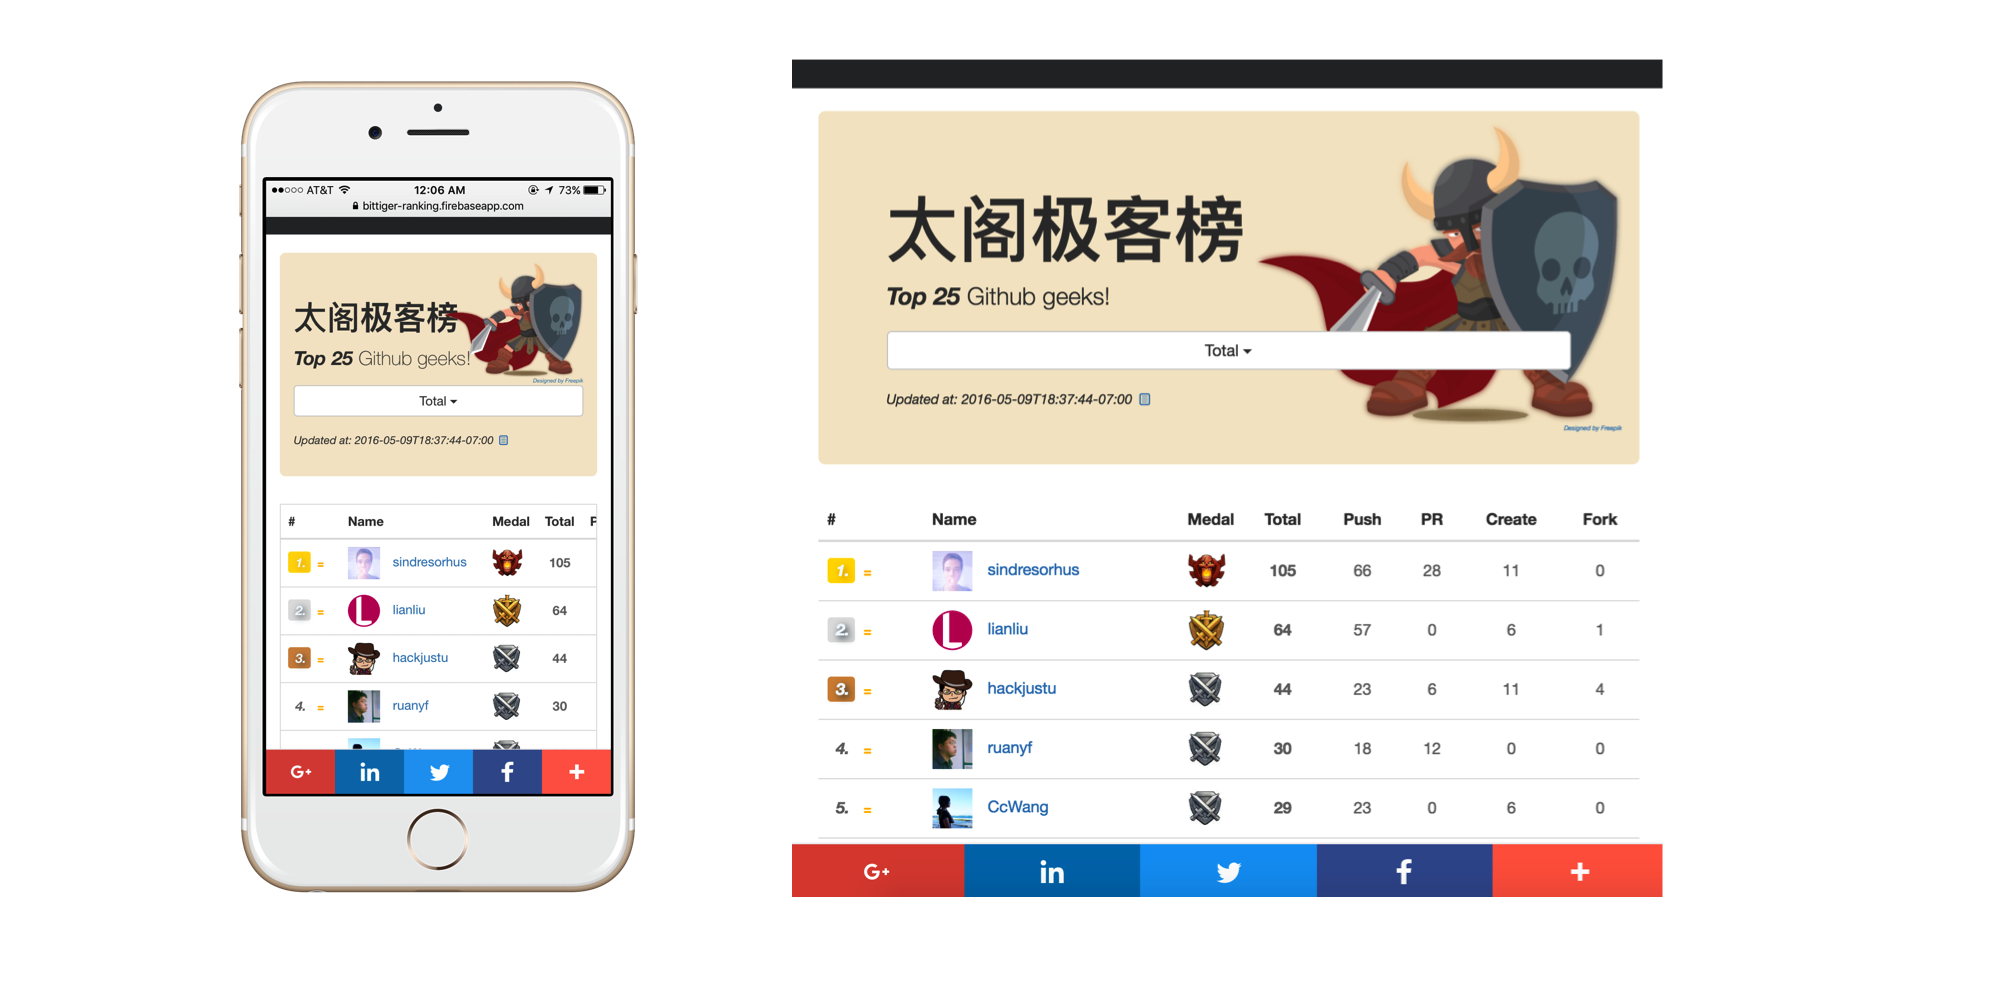
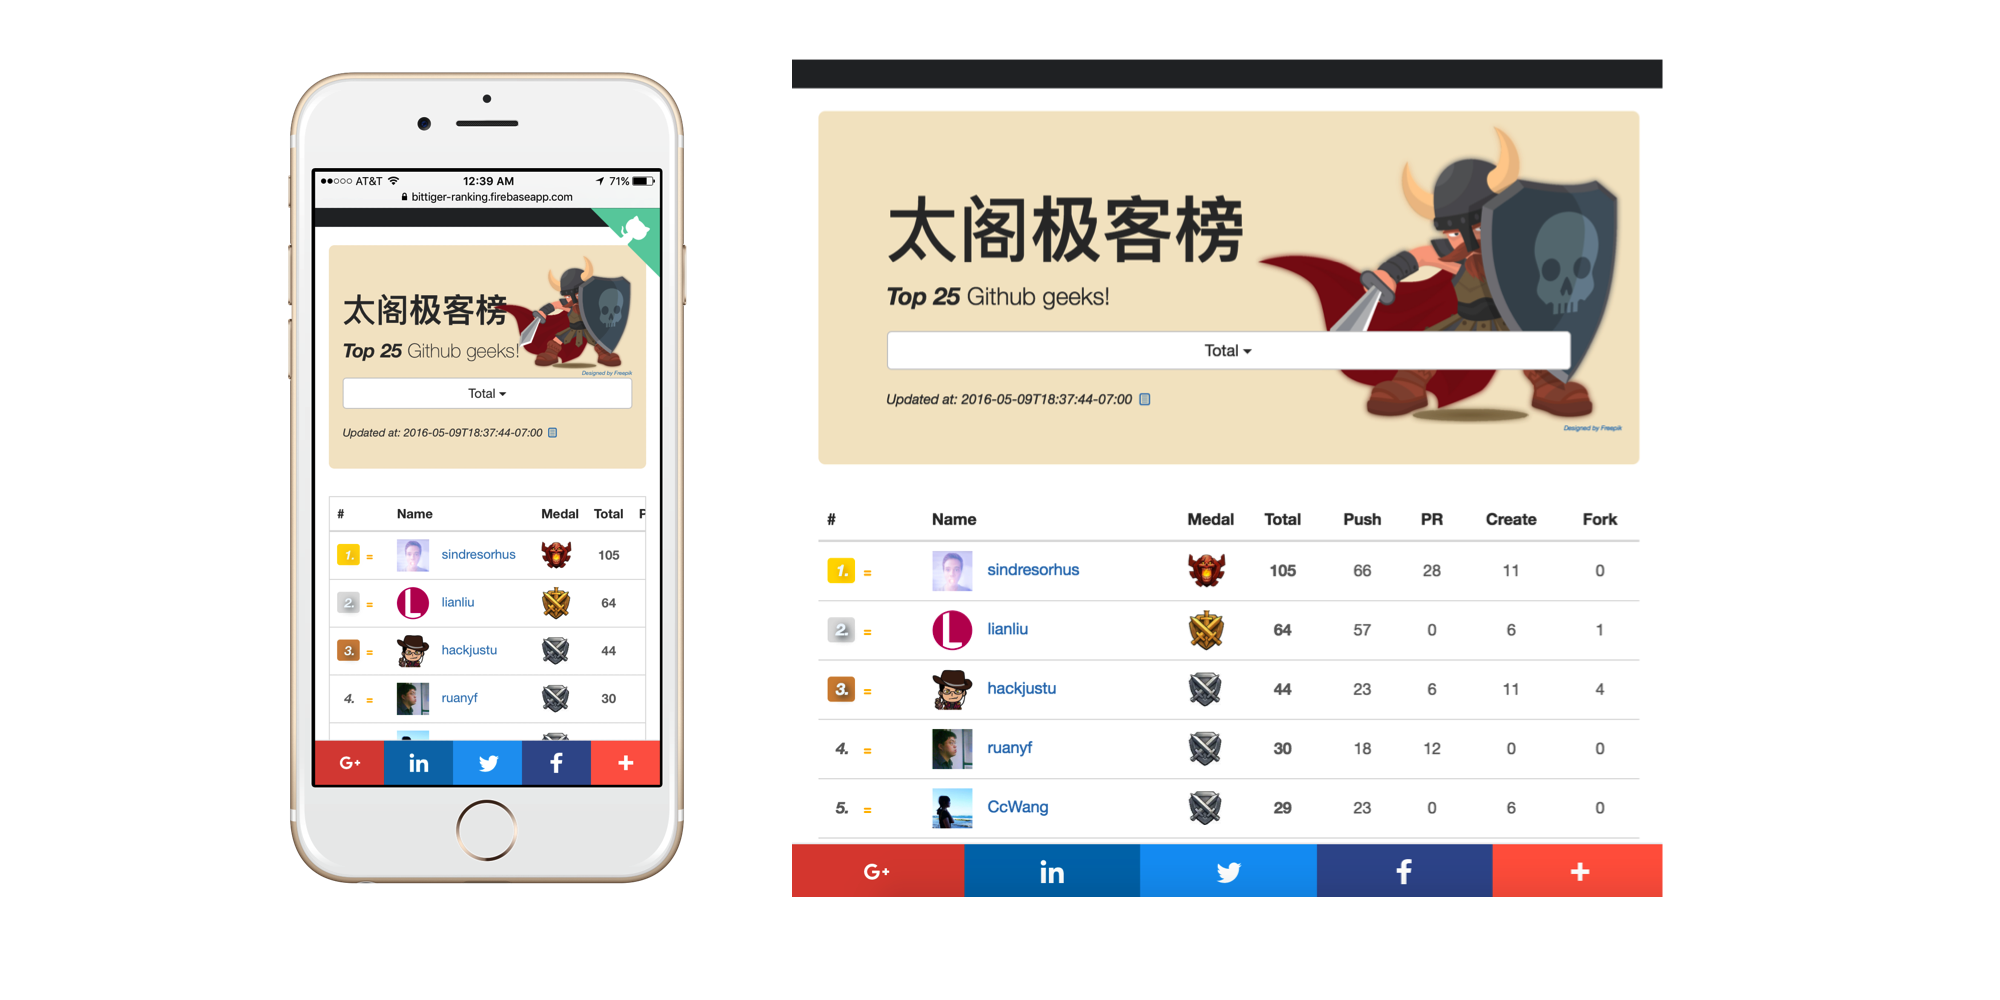
add github corner

Changed region(s): [[0.093, 0.062, 0.341, 0.899]]

diff --git a/index.html b/index.html
@@ -190,6 +190,130 @@
         ga('send', 'pageview');
     </script>
 
+    <a href="https://github.com/hackjustu/Github-Ranking-FrontEnd" class="github-corner">
+        <svg width="80" height="80" viewBox="0 0 250 250" style="fill:#64CEAA; color:#fff; position: absolute; top: 0; border: 0; right: 0;">
+            <path d="M0,0 L115,115 L130,115 L142,142 L250,250 L250,0 Z"></path>
+            <path d="M128.3,109.0 C113.8,99.7 119.0,89.6 119.0,89.6 C122.0,82.7 120.5,78.6 120.5,78.6 C119.2,72.0 123.4,76.3 123.4,76.3 C127.3,80.9 125.5,87.3 125.5,87.3 C122.9,97.6 130.6,101.9 134.4,103.2" fill="currentColor" style="transform-origin: 130px 106px;" class="octo-arm"></path>
+            <path d="M115.0,115.0 C114.9,115.1 118.7,116.5 119.8,115.4 L133.7,101.6 C136.9,99.2 139.9,98.4 142.2,98.6 C133.8,88.0 127.5,74.4 143.8,58.0 C148.5,53.4 154.0,51.2 159.7,51.0 C160.3,49.4 163.2,43.6 171.4,40.1 C171.4,40.1 176.1,42.5 178.8,56.2 C183.1,58.6 187.2,61.8 190.9,65.4 C194.5,69.0 197.7,73.2 200.1,77.6 C213.8,80.2 216.3,84.9 216.3,84.9 C212.7,93.1 206.9,96.0 205.4,96.6 C205.1,102.4 203.0,107.8 198.3,112.5 C181.9,128.9 168.3,122.5 157.7,114.1 C157.9,116.9 156.7,120.9 152.7,124.9 L141.0,136.5 C139.8,137.7 141.6,141.9 141.8,141.8 Z" fill="currentColor" class="octo-body"></path>
+        </svg>
+    </a>
+    <style>
+        .github-corner:hover .octo-arm {
+            animation: octocat-wave 560ms ease-in-out
+        }
+        
+        @keyframes octocat-wave {
+            0%,
+            100% {
+                transform: rotate(0)
+            }
+            20%,
+            60% {
+                transform: rotate(-25deg)
+            }
+            40%,
+            80% {
+                transform: rotate(10deg)
+            }
+        }
+        
+        @media (max-width:500px) {
+            .github-corner:hover .octo-arm {
+                animation: none
+            }
+            .github-corner .octo-arm {
+                animation: octocat-wave 560ms ease-in-out
+            }
+        }
+    </style>
+    <style>
+        .github-corner:hover .octo-arm {
+            animation: octocat-wave 560ms ease-in-out
+        }
+        
+        @keyframes octocat-wave {
+            0%,
+            100% {
+                transform: rotate(0)
+            }
+            20%,
+            60% {
+                transform: rotate(-25deg)
+            }
+            40%,
+            80% {
+                transform: rotate(10deg)
+            }
+        }
+        
+        @media (max-width:500px) {
+            .github-corner:hover .octo-arm {
+                animation: none
+            }
+            .github-corner .octo-arm {
+                animation: octocat-wave 560ms ease-in-out
+            }
+        }
+    </style>
+    <style>
+        .github-corner:hover .octo-arm {
+            animation: octocat-wave 560ms ease-in-out
+        }
+        
+        @keyframes octocat-wave {
+            0%,
+            100% {
+                transform: rotate(0)
+            }
+            20%,
+            60% {
+                transform: rotate(-25deg)
+            }
+            40%,
+            80% {
+                transform: rotate(10deg)
+            }
+        }
+        
+        @media (max-width:500px) {
+            .github-corner:hover .octo-arm {
+                animation: none
+            }
+            .github-corner .octo-arm {
+                animation: octocat-wave 560ms ease-in-out
+            }
+        }
+    </style>
+    <style>
+        .github-corner:hover .octo-arm {
+            animation: octocat-wave 560ms ease-in-out
+        }
+        
+        @keyframes octocat-wave {
+            0%,
+            100% {
+                transform: rotate(0)
+            }
+            20%,
+            60% {
+                transform: rotate(-25deg)
+            }
+            40%,
+            80% {
+                transform: rotate(10deg)
+            }
+        }
+        
+        @media (max-width:500px) {
+            .github-corner:hover .octo-arm {
+                animation: none
+            }
+            .github-corner .octo-arm {
+                animation: octocat-wave 560ms ease-in-out
+            }
+        }
+    </style>
+
 </body>
 
 </html>
